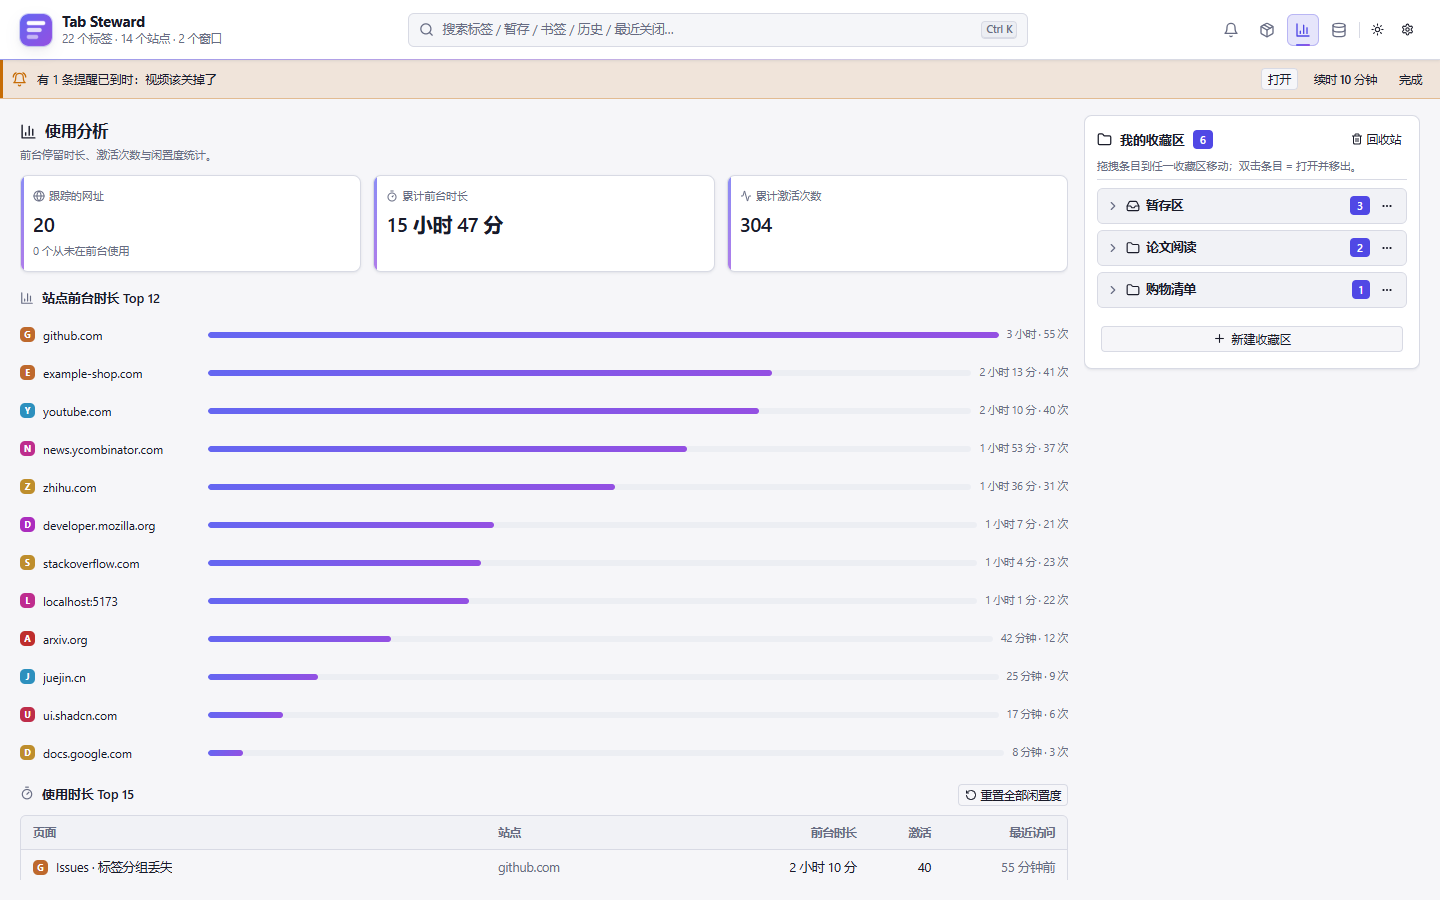
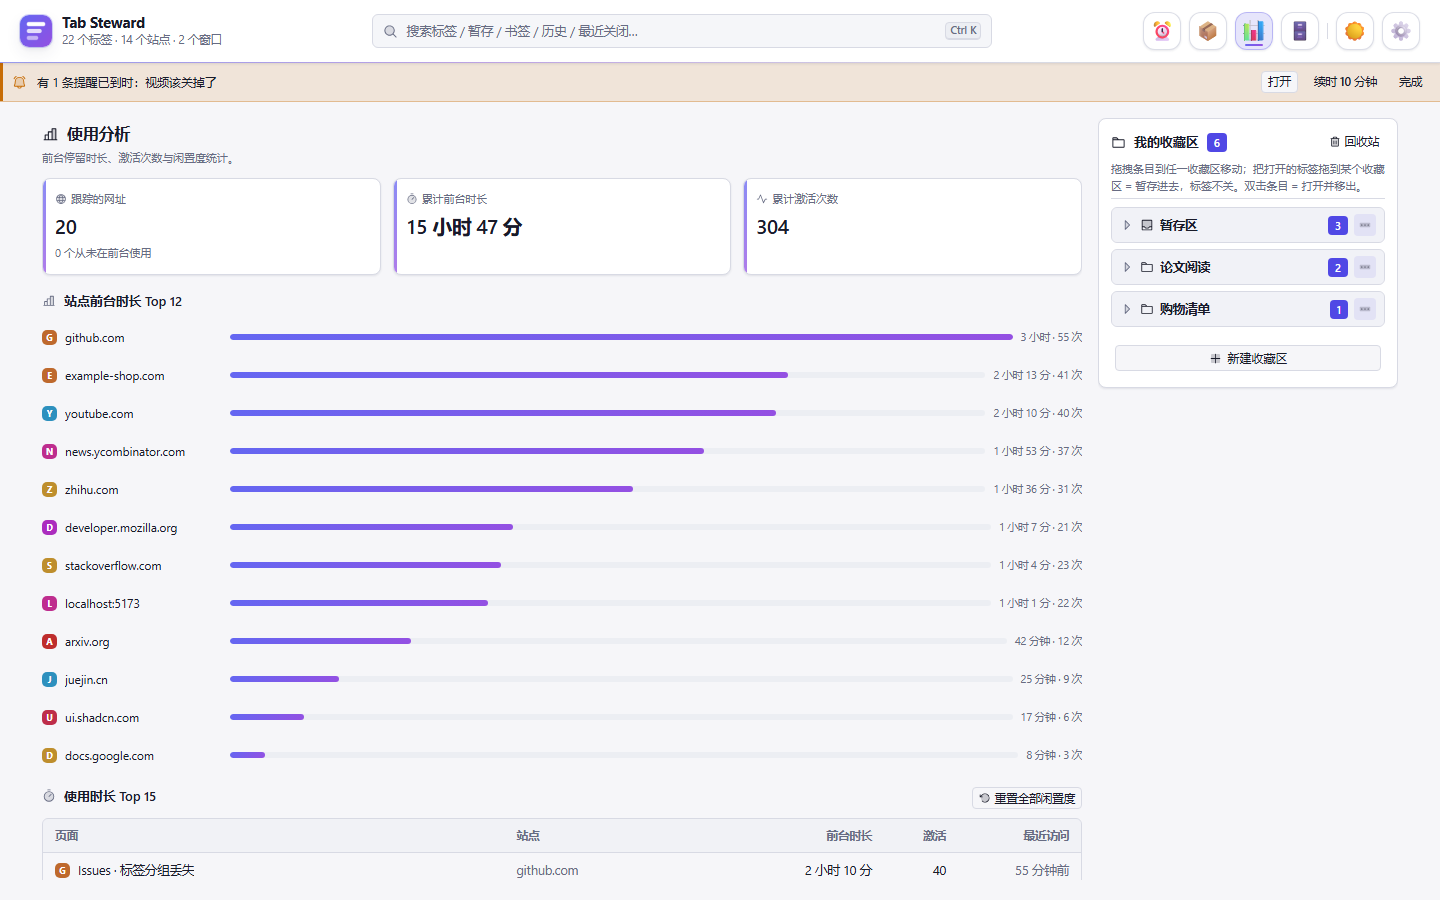
docs: redraw every example against the emoji interface
The four READMEs list the context-menu items with the emoji they really carry,
note that the glyph is menu-title text because the native menu has no icon
field, and describe what the new-tab Dashboard tile actually does; the test
count is 48. All eight clips, the four stills and the context-menu screenshot
were captured from this build, so the docs no longer show the previous column
widths or the line-art rows.

diff --git a/README.md b/README.md
@@ -60,13 +60,17 @@ itself as your collections and windows change.
 
 <img src="docs/context-menu.png" width="420" alt="Chrome context menu with the Tab Steward submenu open">
 
-- **设定提醒** — preset durations, for the page or the whole site
-- **暂存到…** / **暂存并关闭到…** — both list every collection
-- **休眠此标签**
-- **移动到窗口** — the other normal windows
-- **整理所有标签（站点 + 收藏区分组）**
-- **保护此站点（不自动休眠）**
-- **打开 Dashboard**
+Chrome's native menu has no per-item icon field, so each action carries its glyph as an emoji
+character at the start of its title, drawn by the operating system's emoji font. Items that only
+show a value — preset durations, collection names, window titles — stay plain text.
+
+- **⏰ 设定提醒** — preset durations, for the page or the whole site
+- **📥 暂存到…** / **📦 暂存并关闭到…** — both list every collection
+- **🌙 休眠此标签**
+- **🪟 移动到窗口** — the other normal windows
+- **🧹 整理所有标签 (站点 + 收藏区分组)**
+- **🛡 保护此站点（不自动休眠）**
+- **📊 打开 Dashboard**
 
 ## Install
 
@@ -81,7 +85,7 @@ itself as your collections and windows change.
 |---|---|---|
 | Toolbar popup | `src/popup/` | Unified search (tabs / stashes / bookmarks / history / recently closed); below it, two columns: current tabs and the stash; collapse by site, stash / sleep / close, duplicate cleanup |
 | Dashboard | `src/dashboard/` | Top bar = logo + search field + feature buttons; main area = current tabs (sorting / group by window / filter chips / window sections / site cards); right column = always-visible collections panel; reminders, snapshots, analytics and trash switch in from the top-bar icons |
-| New tab page | `src/newtab/` | Minimal start page by default; can be switched to the full Dashboard in settings |
+| New tab page | `src/newtab/` | Minimal start page by default; its Dashboard tile swaps the full Dashboard into the same tab — no extra tab, and the address stays the start page instead of switching to a dashboard URL. Settings can also make the Dashboard the default start page |
 | Settings | `src/options/` | Every toggle, plus LLM configuration |
 
 Shortcuts: `Alt+T` popup, `Alt+Shift+T` Dashboard, `Ctrl/⌘+K` unified search.
@@ -182,7 +186,7 @@ node tools/serve.mjs          # local static server, port 8787 by default
 node tools/check-imports.mjs  # every named import has a matching export
 node tools/scan-undefined-refs.mjs  # the reverse: identifiers used but never imported (e.g. Button)
 node tools/make-icons.mjs     # regenerate the icons (pixel self-check; a transparent output fails the run)
-node tests/run.mjs            # automated tests for the core logic (46 cases)
+node tests/run.mjs            # automated tests for the core logic (48 cases)
 node tools/record-demo.mjs    # regenerate the demo GIFs (needs Chrome + ffmpeg)
 ```
 
@@ -224,7 +228,7 @@ unreliably, so verify layout in a headed browser.
 
 ## License
 
-The source is licensed under [MIT](./LICENSE). The path data of the interface icons derives from
-Lucide (ISC), some of it traceable further back to Feather (MIT); the style primitives reference
-shadcn/ui (MIT). Full license terms and copyright notices for all three are in
+The source is licensed under [MIT](./LICENSE). The path data of the interface icons comes from
+Phosphor (MIT); the top-level action glyphs are Fluent Emoji (MIT, Microsoft); the style primitives
+reference shadcn/ui (MIT). Full license terms and copyright notices are in
 [THIRD_PARTY_NOTICES.md](./THIRD_PARTY_NOTICES.md) and must be kept when redistributing.
